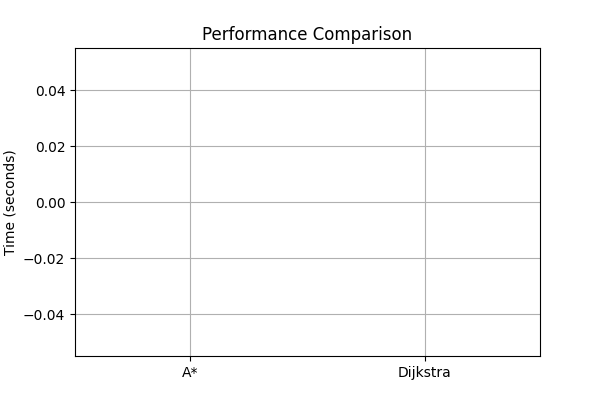
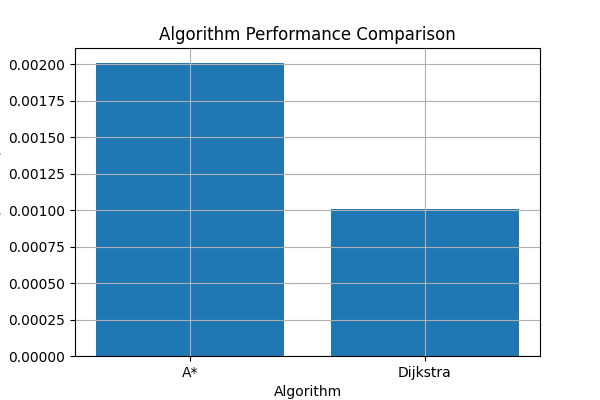
Output Images added in README.md

diff --git a/README.md b/README.md
@@ -123,11 +123,26 @@ python src/main.py
 
 ## 📸 Screenshots
 
+## 📊 Analytics & Visualization
 
+### 🔍 Exploration Comparison (A* vs Dijkstra)
+![Exploration Comparison](outputs/analytics/exploration_comparison.png)
 
-### 🔹 Grid with Obstacles (The Yellow Robot is finding the path)
+---
 
-![Grid](outputs/frames/frame_5.png)
+### 🔥 Exploration Heatmap
+![Heatmap](outputs/analytics/heatmap.png)
+
+---
+
+### 📍 Path Comparison
+![Path Comparison](outputs/analytics/path_comparison.png)
+
+---
+
+### ⚡ Performance Comparison
+![Performance](outputs/analytics/perfomance.png)
+
 
 ### 🔹 Path Planning
 
